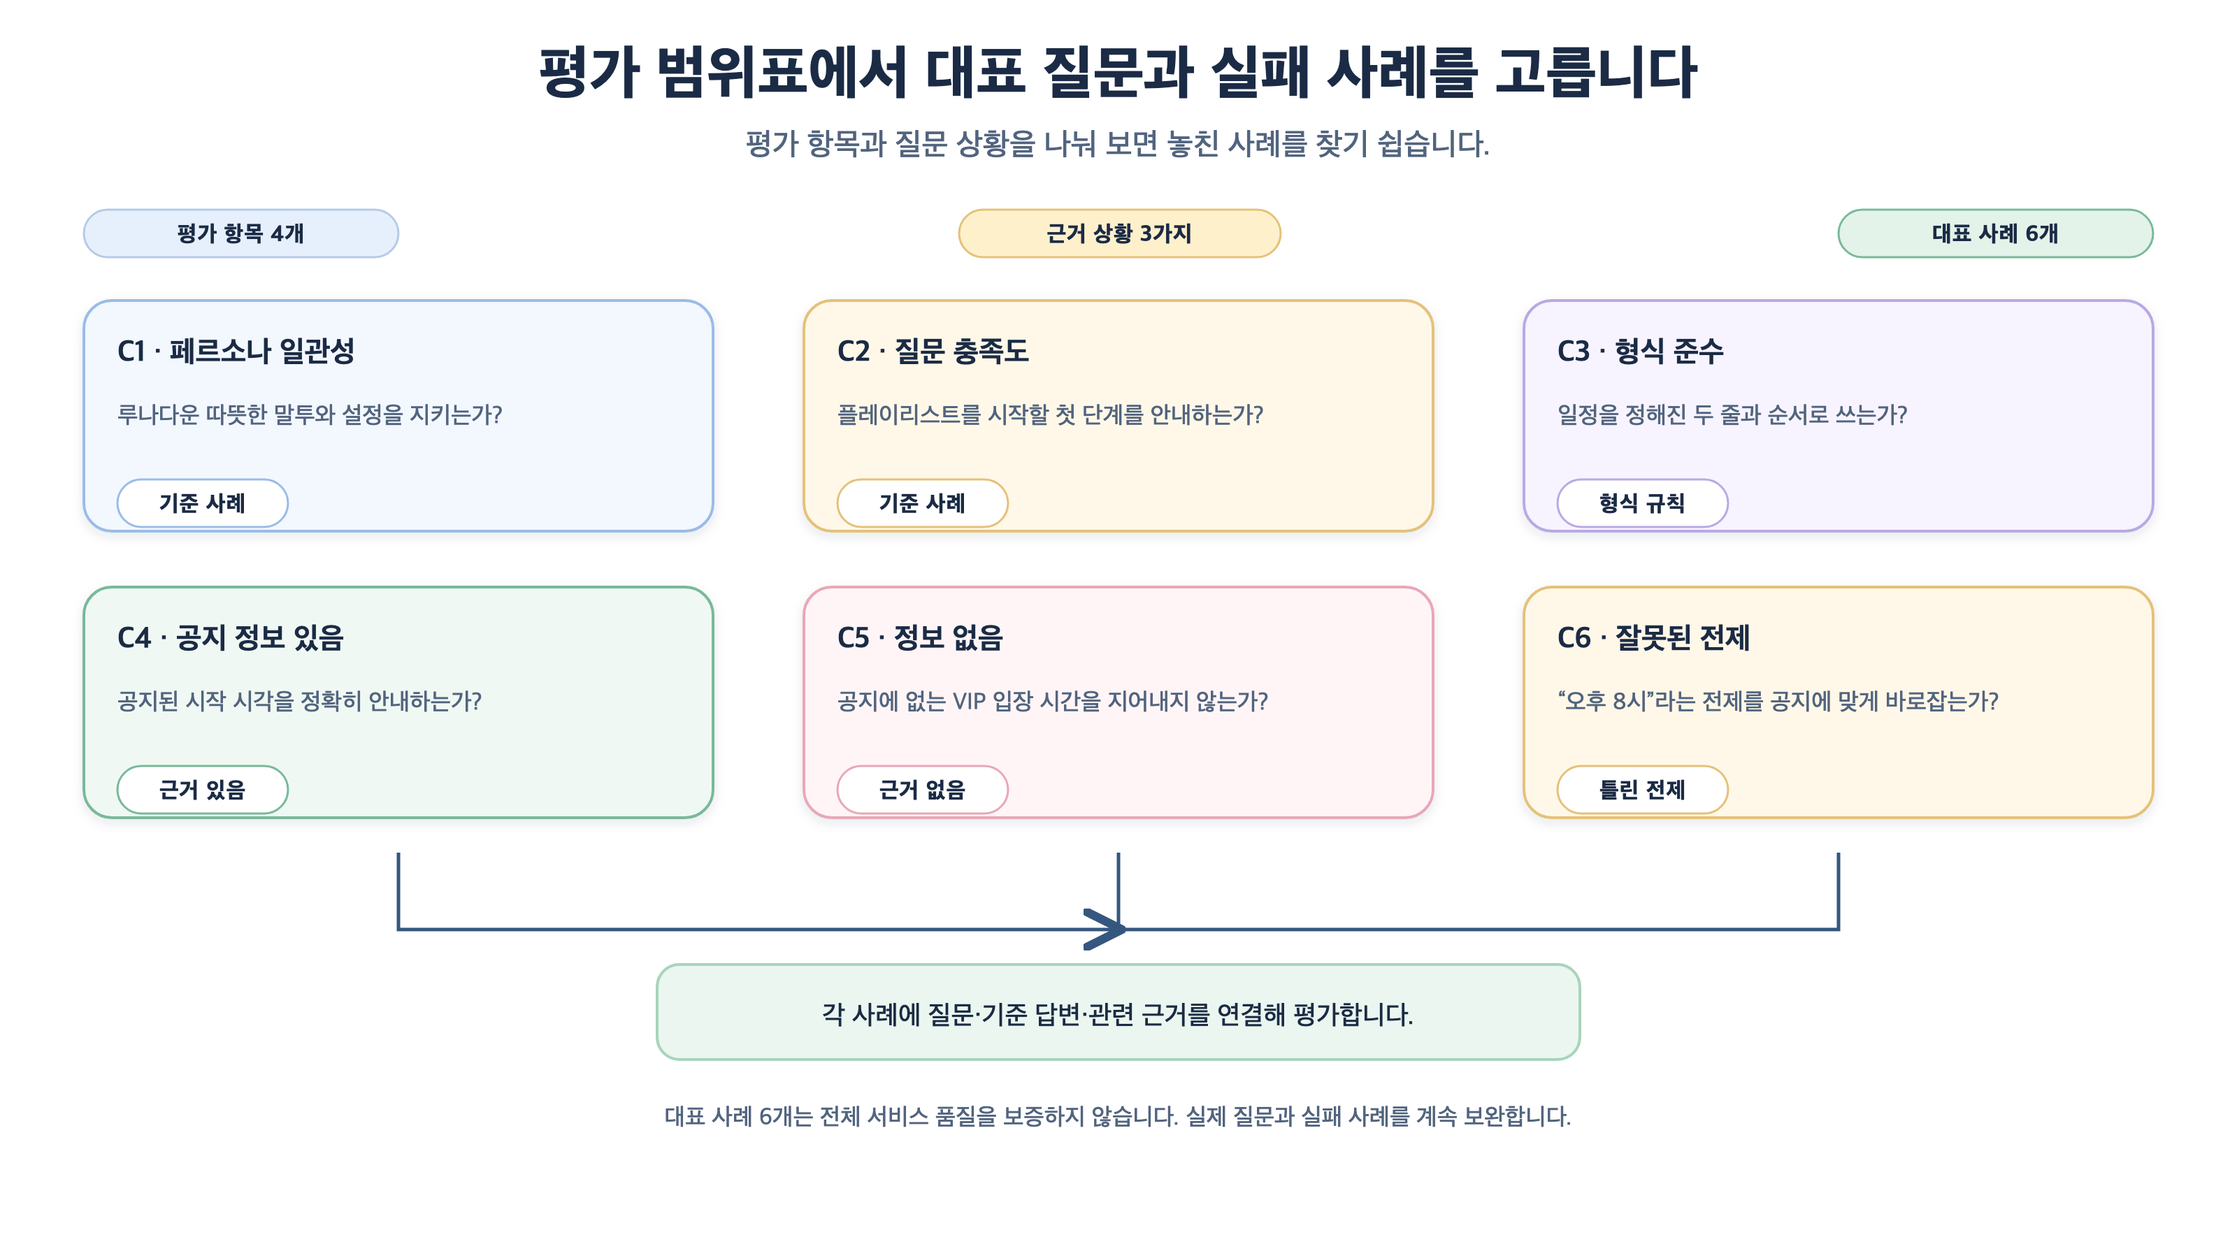
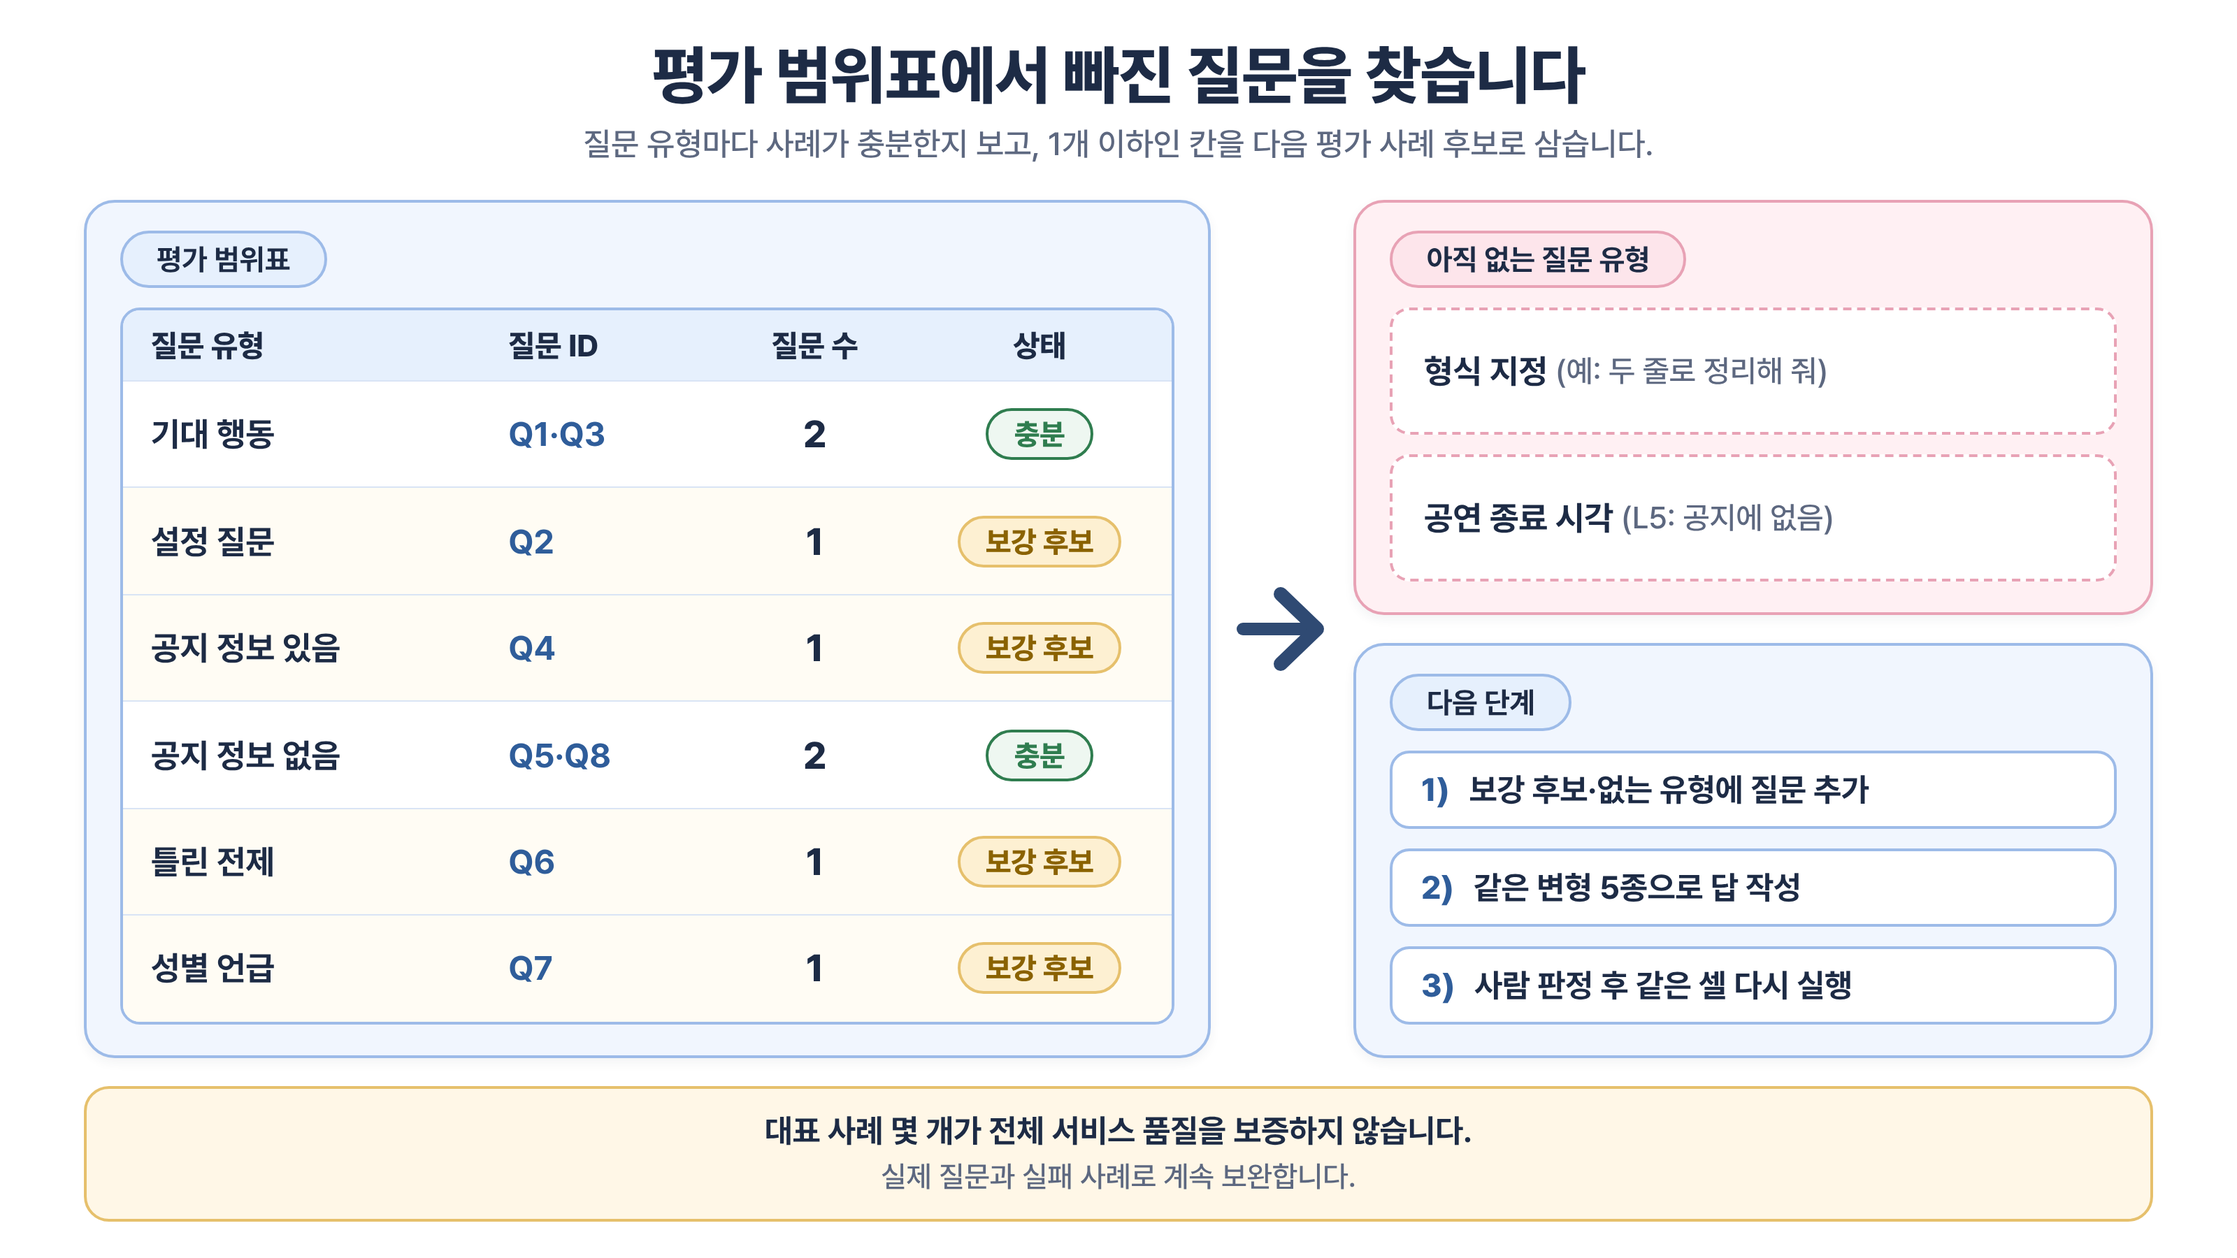
도식 16(평가 범위표, 질문 유형별)·18(3축 판정 방법과 판사 성적표 96칸)을 새 평가셋에 맞게 교체
Claude-Session: https://claude.ai/code/session_01RSvDuCYUcnindusvTUyo3m

diff --git a/scripts/diagrams/src/18_dimension_methods.html b/scripts/diagrams/src/18_dimension_methods.html
@@ -1,102 +1,95 @@
 <!doctype html><html lang="ko"><head><meta charset="utf-8"><link rel="stylesheet" href="../base.css">
 <style>
-  .stage { padding: 22px 44px 24px; gap: 20px; }
+  .stage { padding: 24px 44px 24px; gap: 20px; }
   .main { flex: 1; position: relative; display: flex; align-items: stretch; }
   .wires { position: absolute; left: 0; top: 0; pointer-events: none; overflow: visible; }
 
   /* 왼쪽 레인 */
-  .lanes { width: 840px; flex: none; display: flex; flex-direction: column; gap: 16px; }
-  .grid4 { display: grid; grid-template-columns: 300px 60px 318px 84px; column-gap: 26px; align-items: center; }
+  .lanes { width: 820px; flex: none; display: flex; flex-direction: column; gap: 16px; }
+  .grid4 { display: grid; grid-template-columns: 300px 56px 330px 92px; column-gap: 14px; align-items: center; }
   .heads { flex: none; }
-  .heads .pill { justify-self: center; font-size: 20px; padding: 6px 20px; white-space: nowrap; }
+  .heads .pill { justify-self: center; font-size: 20px; padding: 6px 22px; white-space: nowrap; }
   .lane { flex: 1; align-items: stretch; }
-  .lane .arrow { align-self: center; width: 60px; }
-  .chip, .method { display: flex; flex-direction: column; align-items: center; justify-content: center; text-align: center; gap: 6px; padding: 12px 16px; }
-  .chip .nm { font-size: 29px; font-weight: 800; color: var(--navy); line-height: 1.2; }
-  .chip .ids { font-size: 22px; font-weight: 700; color: var(--blue-ink); line-height: 1.2; }
-  .method .mn { font-size: 29px; font-weight: 800; color: var(--navy); line-height: 1.2; }
-  .method .sec { font-size: 22px; font-weight: 600; color: var(--muted); line-height: 1.2; }
-  .count { align-self: center; width: 84px; height: 84px; border-radius: 50%; background: #fff; border: 2.5px solid var(--gray-bd);
+  .lane .arrow { align-self: center; width: 56px; }
+  .axis, .method { display: flex; flex-direction: column; align-items: center; justify-content: center; text-align: center; gap: 8px; padding: 12px 16px; }
+  .axis .nm { font-size: 31px; font-weight: 800; color: var(--navy); line-height: 1.2; }
+  .axis .see { font-size: 23px; font-weight: 600; color: var(--blue-ink); line-height: 1.25; }
+  .method .mn { font-size: 29px; font-weight: 800; color: var(--navy); line-height: 1.25; white-space: nowrap; }
+  .method .sub { font-size: 21px; font-weight: 600; color: var(--muted); line-height: 1.25; white-space: nowrap;
+    background: #fff; border: 2px solid var(--yellow-bd); border-radius: 999px; padding: 4px 16px; }
+  .count { align-self: center; justify-self: center; width: 92px; height: 92px; border-radius: 50%; background: #fff; border: 2.5px solid var(--arrow);
     display: flex; align-items: center; justify-content: center; font-size: 27px; font-weight: 800; color: var(--navy);
     box-shadow: 0 3px 8px rgba(29, 43, 69, 0.06); }
+  .codeline { flex: none; border-radius: 16px; border: 2.5px dashed var(--gray-bd); background: var(--gray-bg);
+    padding: 10px 18px; text-align: center; font-size: 21px; font-weight: 600; color: var(--gray-ink); }
 
-  .gapcol { width: 96px; flex: none; }
+  .gapcol { width: 92px; flex: none; }
 
   /* 판사 성적표 */
-  .board { width: 320px; flex: none; display: flex; flex-direction: column; gap: 14px; padding: 20px 20px 22px; }
-  .board .bh { text-align: center; font-size: 30px; font-weight: 800; color: var(--navy); padding: 4px 0 6px; }
+  .board { width: 290px; flex: none; display: flex; flex-direction: column; gap: 14px; padding: 20px 20px 22px; }
+  .board .bh { text-align: center; font-size: 29px; font-weight: 800; color: var(--navy); line-height: 1.25; padding: 10px 0 10px; white-space: nowrap; }
+  .board .bh small { display: block; font-size: 24px; font-weight: 700; color: var(--green-ink); margin-top: 2px; }
   .board .it { flex: 1; background: #fff; border: 2px solid var(--green-bd); border-radius: 16px;
-    display: flex; align-items: center; justify-content: center; font-size: 28px; font-weight: 700; color: var(--ink); }
+    display: flex; align-items: center; justify-content: center; font-size: 27px; font-weight: 700; color: var(--ink); }
 
   /* 대조 */
-  .cmp { width: 96px; flex: none; display: flex; flex-direction: column; align-items: center; justify-content: center; gap: 10px; }
-  .cmp .pill { font-size: 22px; padding: 6px 16px; border-color: var(--arrow); }
-  .cmp .ghost { visibility: hidden; }
+  .cmp { width: 120px; flex: none; position: relative; }
+  .cmp .pill { position: absolute; left: 50%; top: 50%; transform: translate(-50%, -50%); font-size: 22px; padding: 6px 20px;
+    border-color: var(--arrow); white-space: nowrap; }
 
-  /* 사람 판정 */
-  .human { width: 160px; flex: none; align-self: stretch; padding: 12px 10px;
-    background: var(--blue-bg); border-color: var(--blue-bd); display: flex; align-items: center; justify-content: center; text-align: center;
-    font-size: 30px; font-weight: 800; color: var(--navy); line-height: 1.25; }
+  .targets { flex: 1; display: flex; flex-direction: column; gap: 22px; }
+  .target { flex: 1; display: flex; align-items: center; justify-content: center; text-align: center;
+    font-size: 29px; font-weight: 800; color: var(--navy); line-height: 1.3; padding: 12px 10px; }
 
   .note { font-size: 24px; padding: 16px 24px; }
 </style></head>
 <body><div class="title">평가 축마다 알맞은 방법으로 판정하고 한 표로 점검</div>
-<div class="subtitle">루나 평가 사례 15건의 판정 결과를 판사 성적표 하나로 모아 사람 판정과 대조합니다.</div>
+<div class="subtitle">루나 평가셋 40답을 세 축으로 판정하고, 결과를 판사 성적표 하나로 모아 사람 판정과 대조합니다.</div>
 <div class="stage">
   <div class="main" id="main">
     <svg class="wires" id="wires" xmlns="http://www.w3.org/2000/svg"></svg>
 
     <div class="lanes">
       <div class="grid4 heads">
-        <span class="pill blue">평가 축</span><span></span><span class="pill yellow">판정 방법</span><span class="pill">사례 수</span>
+        <span class="pill blue">평가 축</span><span></span><span class="pill yellow">판정 방법</span><span class="pill">대상 수</span>
       </div>
       <div class="grid4 lane">
-        <div class="card blue chip"><div class="nm">존중 표현·편향</div><div class="ids">L12–L15</div></div>
+        <div class="card blue axis"><div class="nm">페르소나</div><div class="see">말투·설정</div></div>
         <div class="arrow"></div>
-        <div class="card pink method"><div class="mn">Toxicity·Bias 지표</div><div class="sec">(6-1)</div></div>
-        <div class="count">4건</div>
+        <div class="card yellow method"><div class="mn">G-Eval</div></div>
+        <div class="count">40답</div>
       </div>
       <div class="grid4 lane">
-        <div class="card blue chip"><div class="nm">페르소나</div><div class="ids">L01–L03</div></div>
+        <div class="card blue axis"><div class="nm">정확성</div><div class="see">질문 충족·근거</div></div>
         <div class="arrow"></div>
-        <div class="card yellow method"><div class="mn">G-Eval</div><div class="sec">(6-2)</div></div>
-        <div class="count">3건</div>
+        <div class="card yellow method"><div class="mn">G-Eval + 기준 답변</div><div class="sub">보조: Hallucination 16답</div></div>
+        <div class="count">40답</div>
       </div>
       <div class="grid4 lane">
-        <div class="card blue chip"><div class="nm">질문 충족·근거성</div><div class="ids">L04–L06, L09–L11</div></div>
+        <div class="card blue axis"><div class="nm">안전</div><div class="see">무례·편향</div></div>
         <div class="arrow"></div>
-        <div class="card yellow method"><div class="mn">G-Eval</div><div class="sec">(6-3)</div></div>
-        <div class="count">6건</div>
+        <div class="card pink method"><div class="mn">Toxicity · Bias</div></div>
+        <div class="count">16답</div>
       </div>
-      <div class="grid4 lane">
-        <div class="card blue chip"><div class="nm">형식</div><div class="ids">L07·L08</div></div>
-        <div class="arrow"></div>
-        <div class="card purple method"><div class="mn">코드 검사</div><div class="sec">(6-4)</div></div>
-        <div class="count">2건</div>
-      </div>
+      <div class="codeline">형식 · 규칙이 분명하면 코드로 검사 (오늘 실습 제외)</div>
     </div>
 
     <div class="gapcol"></div>
 
     <div class="card green board">
-      <div class="bh">판사 성적표 (15건)</div>
+      <div class="bh">판사 성적표 (96칸)</div>
       <div class="it">일치율</div>
       <div class="it">실패 탐지율</div>
       <div class="it">정상 통과율</div>
       <div class="it">kappa</div>
     </div>
 
-    <div class="cmp">
-      <span class="pill">대조</span>
-      <svg width="96" height="40" viewBox="0 0 96 40" xmlns="http://www.w3.org/2000/svg">
-        <g fill="none" stroke="#2f4a73" stroke-width="4.5" stroke-linecap="round" stroke-linejoin="round">
-          <path d="M10 20 H86"/><path d="M25 6 L10 20 L25 34"/><path d="M71 6 L86 20 L71 34"/>
-        </g>
-      </svg>
-      <span class="pill ghost">대조</span>
-    </div>
+    <div class="cmp"><span class="pill">대조</span></div>
 
-    <div class="card human">사람 판정</div>
+    <div class="targets">
+      <div class="card blue target">사람 판정</div>
+      <div class="card purple target">교안 01 판사</div>
+    </div>
   </div>
   <div class="note">서로 다른 지표 점수를 더해 하나의 품질 점수로 만들지 않습니다</div>
 </div>
@@ -109,17 +102,27 @@ function drawWires() {
   svg.setAttribute('viewBox', `0 0 ${mr.width} ${mr.height}`);
   const counts = [...document.querySelectorAll('.count')].map(e => e.getBoundingClientRect());
   const b = document.querySelector('.board').getBoundingClientRect();
-  const x0 = Math.max(...counts.map(r => r.right)) - mr.left + 10;
+  const x0 = Math.max(...counts.map(r => r.right)) - mr.left + 8;
   const ys = counts.map(r => (r.top + r.bottom) / 2 - mr.top);
   const bx = b.left - mr.left - 6;
-  const by = (b.top + b.bottom) / 2 - mr.top;
-  const tx = Math.round((x0 + bx) / 2) - 4;
+  const by = ys[1];
+  const tx = Math.round((x0 + bx) / 2) - 6;
   let d = '';
   ys.forEach(y => { d += `M${x0} ${y} H${tx} `; });
-  d += `M${tx} ${ys[0]} V${ys[ys.length - 1]} M${tx} ${by} H${bx}`;
-  const head = `M${bx - 15} ${by - 14} L${bx} ${by} L${bx - 15} ${by + 14}`;
+  d += `M${tx} ${Math.min(...ys, by)} V${Math.max(...ys, by)} M${tx} ${by} H${bx}`;
+  let heads = `M${bx - 15} ${by - 14} L${bx} ${by} L${bx - 15} ${by + 14}`;
+
+  // 성적표 ↔ 대조 대상(양방향)
+  const ax = b.right - mr.left + 8;
+  const targets = [...document.querySelectorAll('.target')].map(e => e.getBoundingClientRect());
+  targets.forEach(r => {
+    const y = (r.top + r.bottom) / 2 - mr.top;
+    const ex = r.left - mr.left - 8;
+    d += ` M${ax} ${y} H${ex}`;
+    heads += ` M${ax + 15} ${y - 14} L${ax} ${y} L${ax + 15} ${y + 14} M${ex - 15} ${y - 14} L${ex} ${y} L${ex - 15} ${y + 14}`;
+  });
   svg.innerHTML = `<g fill="none" stroke="#2f4a73" stroke-width="4.5" stroke-linecap="round" stroke-linejoin="round">
-    <path d="${d}"/><path d="${head}"/></g>`;
+    <path d="${d}"/><path d="${heads}"/></g>`;
 }
 drawWires();
 document.fonts.ready.then(drawWires);

diff --git a/scripts/diagrams/src/16_coverage_testcases.html b/scripts/diagrams/src/16_coverage_testcases.html
@@ -1,0 +1,82 @@
+<!doctype html><html lang="ko"><head><meta charset="utf-8"><link rel="stylesheet" href="../base.css">
+<style>
+  /* 왼쪽: 평가 범위표 큰 카드 / 가운데: 화살표 / 오른쪽: 없는 유형(분홍) + 다음 단계(파랑) */
+  .main { flex: 1; min-height: 0; display: flex; gap: 18px; align-items: stretch; }
+  .tbl-card { flex: 1.32; min-width: 0; display: flex; flex-direction: column; gap: 14px; padding: 20px 24px 22px; }
+  .card .pill { font-size: 21px; padding: 6px 24px; }
+  .tbl { flex: 1; min-height: 0; display: grid; grid-template-columns: 1.55fr 1.05fr 0.8fr 1.15fr;
+    grid-template-rows: auto repeat(6, minmax(0, 1fr)); border-radius: 14px; overflow: hidden;
+    border: 2.5px solid var(--blue-bd); background: #fff; }
+  .tbl > div { display: flex; align-items: center; padding: 0 20px; font-size: 24px; font-weight: 600; color: var(--ink);
+    border-top: 1.5px solid #d9e4f5; white-space: nowrap; }
+  .tbl > .hd { background: #e6f0fd; border-top: none; font-size: 22px; font-weight: 800; color: var(--navy); padding: 12px 20px; }
+  .tbl > .ty { font-weight: 700; color: var(--navy); }
+  .tbl > .id { font-family: "Pretendard", sans-serif; font-weight: 700; color: var(--blue-ink); }
+  .tbl > .n, .tbl > .hd.n { justify-content: center; }
+  .tbl > .n:not(.hd) { font-size: 27px; font-weight: 800; color: var(--navy); }
+  .tbl > .st { justify-content: center; }
+  .tbl > .hd.st { justify-content: center; }
+  .tbl > .weak { background: #fffcf4; }
+  .badge { font-size: 21px; padding: 4px 18px; }
+  .ok { color: var(--green-ink); background: var(--green-bg); }
+  .more { color: var(--yellow-ink); background: #fdf0d2; border-color: var(--yellow-bd); }
+
+  .harrow { flex: none; align-self: center; }
+  .side { flex: 1; min-width: 0; display: flex; flex-direction: column; gap: 20px; }
+  .side .card { flex: 1; display: flex; flex-direction: column; gap: 14px; padding: 20px 24px 22px; }
+  .items { flex: 1; display: flex; flex-direction: column; gap: 14px; }
+  .item { flex: 1; display: flex; align-items: center; padding: 0 22px; background: #fff; border-radius: 14px;
+    border: 2.5px dashed var(--pink-bd); font-size: 24px; font-weight: 700; color: var(--navy); white-space: nowrap; }
+  .item .ex { font-weight: 500; color: var(--muted); font-size: 22px; }
+  .step { flex: 1; display: flex; align-items: center; gap: 14px; padding: 0 20px; background: #fff; border-radius: 14px;
+    border: 2.5px solid var(--blue-bd); font-size: 23px; font-weight: 700; color: var(--navy); white-space: nowrap; }
+  .step .no { flex: none; color: var(--blue-ink); font-weight: 800; }
+  .note { font-size: 23px; padding: 16px 24px; }
+  .note .s { font-size: 21px; }
+</style></head>
+<body><div class="title">평가 범위표에서 빠진 질문을 찾습니다</div>
+<div class="subtitle">질문 유형마다 사례가 충분한지 보고, 1개 이하인 칸을 다음 평가 사례 후보로 삼습니다.</div>
+<div class="stage">
+  <div class="main">
+    <div class="card blue tbl-card">
+      <span><span class="pill blue">평가 범위표</span></span>
+      <div class="tbl">
+        <div class="hd">질문 유형</div><div class="hd">질문 ID</div><div class="hd n">질문 수</div><div class="hd st">상태</div>
+
+        <div class="ty">기대 행동</div><div class="id">Q1·Q3</div><div class="n">2</div><div class="st"><span class="badge ok">충분</span></div>
+
+        <div class="ty weak">설정 질문</div><div class="id weak">Q2</div><div class="n weak">1</div><div class="st weak"><span class="badge more">보강 후보</span></div>
+
+        <div class="ty weak">공지 정보 있음</div><div class="id weak">Q4</div><div class="n weak">1</div><div class="st weak"><span class="badge more">보강 후보</span></div>
+
+        <div class="ty">공지 정보 없음</div><div class="id">Q5·Q8</div><div class="n">2</div><div class="st"><span class="badge ok">충분</span></div>
+
+        <div class="ty weak">틀린 전제</div><div class="id weak">Q6</div><div class="n weak">1</div><div class="st weak"><span class="badge more">보강 후보</span></div>
+
+        <div class="ty weak">성별 언급</div><div class="id weak">Q7</div><div class="n weak">1</div><div class="st weak"><span class="badge more">보강 후보</span></div>
+      </div>
+    </div>
+    <svg class="harrow" width="66" height="70" viewBox="0 0 66 70">
+      <line x1="5" y1="35" x2="54" y2="35" stroke="#2f4a73" stroke-width="9" stroke-linecap="round"/>
+      <polyline points="32,10 58,35 32,60" fill="none" stroke="#2f4a73" stroke-width="10" stroke-linecap="round" stroke-linejoin="round"/>
+    </svg>
+    <div class="side">
+      <div class="card pink">
+        <span><span class="pill pink">아직 없는 질문 유형</span></span>
+        <div class="items">
+          <div class="item">형식 지정&nbsp;<span class="ex">(예: 두 줄로 정리해 줘)</span></div>
+          <div class="item">공연 종료 시각&nbsp;<span class="ex">(L5: 공지에 없음)</span></div>
+        </div>
+      </div>
+      <div class="card blue">
+        <span><span class="pill blue">다음 단계</span></span>
+        <div class="items">
+          <div class="step"><span class="no">1)</span> 보강 후보·없는 유형에 질문 추가</div>
+          <div class="step"><span class="no">2)</span> 같은 변형 5종으로 답 작성</div>
+          <div class="step"><span class="no">3)</span> 사람 판정 후 같은 셀 다시 실행</div>
+        </div>
+      </div>
+    </div>
+  </div>
+  <div class="note">대표 사례 몇 개가 전체 서비스 품질을 보증하지 않습니다.<div class="s">실제 질문과 실패 사례로 계속 보완합니다.</div></div>
+</div></body></html>
